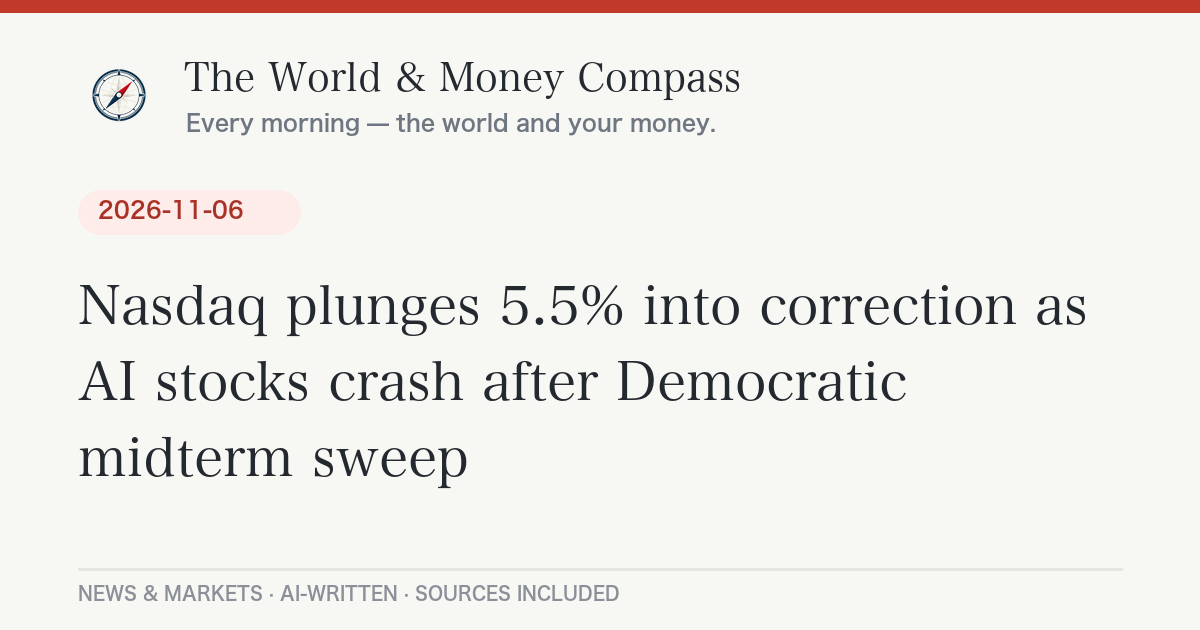
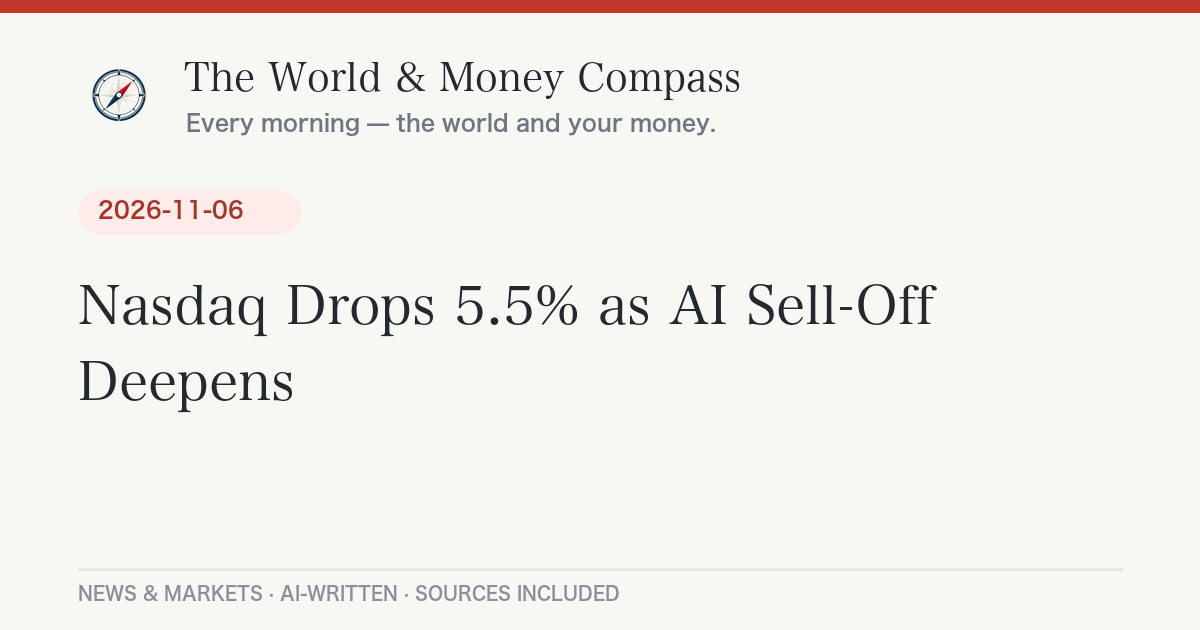
Daily briefing 2026-11-08

diff --git a/_posts/2026-11-08-daily-briefing.md b/_posts/2026-11-08-daily-briefing.md
@@ -1,0 +1,97 @@
+---
+layout: post
+lang: ja
+title: "中間選挙後のAI株急落、日経平均は3,643円安の5万7,434円｜11月8日のニュースとお金"
+date: 2026-11-08 07:55:00 +0900
+categories: [ニュース, 経済]
+headline: "中間選挙後のAI株急落、日経平均は3,643円安の5万7,434円"
+permalink: /2026/11/08/daily-briefing/
+---
+
+## 今日のポイント
+
+米中間選挙で民主党が上下両院を制し、「AIやデータセンターの開発に規制がかかるのでは」という不安が一気に広がりました。5日の米国ではハイテク株が急落し、6日の東京市場も[日経平均が3,643円安の5万7,434円](https://s.kabutan.jp/news/n202611061716/)まで下げています。一方、同じ6日の米雇用統計は予想を大きく上回り、12月の米利上げ観測が強まりました。今日は日曜で市場は休み。来週の相場は「AI株の下げ止まり」と「米CPI」が焦点です。
+
+## 今日の羅針盤（Compass Insight）
+
+今週の動きは、「政治の結果が、特定の成長テーマの値付けを一夜で変える」ことを示しました。水曜は選挙結果を好感してダウが約3%上昇しましたが、翌日には[ナスダック総合が約5.5%、S&P500が約4.4%下落](https://finance.yahoo.com/quote/%5EGSPC/history/)しました（Yahoo Financeの終値から算出）。市場は「選挙の結果」より、その先の「AI規制」を値段に織り込み始めたと読めます。
+
+家計への影響は二つあります。ひとつは投資信託やNISAで米国株・半導体関連を持っている人の評価額で、AI関連に偏った商品ほど振れ幅が大きくなります。もうひとつは金利です。米雇用統計が強く、[12月の利上げ確率は約77%](https://247wallst.com/investing/2026/11/07/odds-of-a-december-rate-hike-jump-to-77-after-a-blowout-jobs-report/)（CME FedWatch）まで上がりました。米金利が高止まりすると、円安・輸入物価・住宅ローン金利の見通しにも影響しやすくなります。
+
+短期では、来週の米CPI・PPIと国内企業の決算、AI関連株が反発するか追加で崩れるかに注目。中長期では、新議会が実際にデータセンター規制をどこまで具体化するか、そして利上げが続く中で株式のバリュエーションが保てるかが論点になりそうです。急落の直後は値動きが荒くなりやすいので、一度に動かず分散を意識したい局面です。
+
+## 今日のニュース
+
+### 日本
+- 高市首相の「台湾有事」発言から7日で1年。[対話は開かれているとしつつ、日中関係の改善は進んでいない](https://www.tokyo-np.co.jp/article/526564)と東京新聞が報じています。
+- 6日の東京株式市場は、東証プライムの[値下がり銘柄が98.1%](https://s.kabutan.jp/news/n202611061716/)に達する全面安でした。値上がりした業種はありませんでした。
+
+### 世界
+- 米国とイランの間では、イランが核問題の提案を伝達し米側が検討中。一方で[トランプ大統領は軍事行動の再開も排除していません](https://www.aljazeera.com/news/2026/11/5/iran-gaza-ukraine-what-will-us-midterm-results-mean-for-these-conflicts)。
+- ウクライナ情勢をめぐる協議は、来週アブダビで行われる見通しです（[Euronews](https://www.euronews.com/2026/11/06/europe-today-trump-weighs-iran-strikes-as-ukraine-talks-head-to-abu-dhabi)）。
+
+### アメリカ
+- 中間選挙で民主党が上下両院を制しました。当選者の一部はデータセンター建設の一時停止を公約に掲げており、これがAI株急落の引き金になりました（[TradingView/Benzinga](https://www.tradingview.com/news/benzinga:847a407fd094b:0-nasdaq-100-has-worst-day-since-2020-jobs-beat-keeps-fed-hike-alive-this-week-on-wall-street/)）。
+- 10月の雇用統計は[非農業部門の雇用者数が16.5万人増](https://247wallst.com/investing/2026/11/07/odds-of-a-december-rate-hike-jump-to-77-after-a-blowout-jobs-report/)（予想は6.5万人増）、失業率は4.1%でした。
+
+### ヨーロッパ
+- 6日の欧州株は米ハイテク株安の波及で下落し、[ストックス600は約1%安](https://www.irishtimes.com/business/2026/11/06/european-shares-tumble-while-us-stocks-soar/)で終えました。
+
+## 経済とお金の動き
+
+### 世界の経済と原油・相場
+
+6日（金）終値ベースです。日曜のため新しい取引はありません。
+
+| 指標 | 水準 | 前日比 |
+|---|---|---|
+| 日経平均株価 | 57,434.77円 | <span class="chg-down">-3,643.13円</span> |
+| S&P500 | 7,376.86 | <span class="chg-up">+0.31%</span> |
+| ナスダック総合 | 24,579.42 | <span class="chg-up">+約1.1%</span> |
+| NYダウ | 約5万1,286ドル | <span class="chg-down">約-0.5%</span> |
+| WTI原油 | 約90.8ドル/バレル | <span class="chg-up">+0.31ドル（週間では約13%安）</span> |
+| ドル円 | 158.33円 | ECB基準日 11月6日 |
+
+出典：[日経平均は株探](https://s.kabutan.jp/news/n202611061716/)、S&P500とナスダックは[Yahoo Finance](https://finance.yahoo.com/)のチャートデータ、ダウとWTIは[Investrade](https://investrade.com/market-review-november-06-2026/)、ドル円は[frankfurter API](https://api.frankfurter.app/latest?from=USD&to=JPY)。ダウとWTIは情報源により数値に小差があるため「約」としています。
+
+原油は選挙後に中東の再衝突リスクが後退するとの見方から、週間では大きく下げました。
+
+### アメリカの経済
+
+雇用統計は強い内容でした。時給は[0.4%上昇し38.00ドル（前年比3.1%増）](https://247wallst.com/investing/2026/11/07/odds-of-a-december-rate-hike-jump-to-77-after-a-blowout-jobs-report/)。FRBは9月16日に利上げ、10月28日は据え置きでしたが、現行の政策金利は3.75〜4.00%です。12月8〜9日の会合で0.25%の追加利上げを市場は有力視しています。10年債利回りは[4.86%](https://www.tradingview.com/news/benzinga:847a407fd094b:0-nasdaq-100-has-worst-day-since-2020-jobs-beat-keeps-fed-hike-alive-this-week-on-wall-street/)です。
+
+### 日本の経済
+
+日経平均は5日続落。取引時間中は一時5万7,000円を割り、下げ幅が4,300円を超える場面もありました。その後は押し目買いで下げ幅を縮めています。東証プライムの売買代金は[12兆4,808億円](https://s.kabutan.jp/news/n202611061716/)と膨らみました。円相場は1ドル158円台です。
+
+## 今日の注目銘柄・セクター
+
+- **半導体・AI関連（東京エレクトロン、アドバンテスト、ソフトバンクGなど）**：米国のAI規制懸念で[日本でも軒並み下落](https://s.kabutan.jp/news/n202611061716/)。米国では半導体株指数（SOX）が約12%下落しました。
+- **メモリ関連（米サンディスク、マイクロン）**：今年の値上がり上位だったぶん反動が大きく、[サンディスクが22%、マイクロンが17%の下落](https://www.tradingview.com/news/benzinga:847a407fd094b:0-nasdaq-100-has-worst-day-since-2020-jobs-beat-keeps-fed-hike-alive-this-week-on-wall-street/)となりました。
+- **自動車（GM・フォード）**：ハイテクに比べ下げが小さく、[GMは水曜に過去最高値を付けました](https://www.tradingview.com/news/benzinga:847a407fd094b:0-nasdaq-100-has-worst-day-since-2020-jobs-beat-keeps-fed-hike-alive-this-week-on-wall-street/)。
+
+*※特定銘柄の売買を推奨するものではありません。投資判断はご自身の責任で。*
+
+## まとめ：注目の3つ
+
+1. **AI規制リスク**：民主党が両院を制した影響で、AI・半導体株が急落。来週は反発か続落かが焦点。
+2. **12月の米利上げ観測**：雇用統計の上振れで確率は約77%。来週の米CPI・PPIが次の材料。
+3. **日米欧の株安連鎖**：日経は5日続落、欧州株も下落。値動きが荒い局面では分散を意識。
+
+---
+<div class="post-sources" markdown="1">
+
+**出典：**
+- [株探：日経平均は大幅続落、米AI規制懸念で幅広い銘柄に売り](https://s.kabutan.jp/news/n202611061716/)
+- [TradingView/Benzinga：Nasdaq 100 Has Worst Day Since 2020](https://www.tradingview.com/news/benzinga:847a407fd094b:0-nasdaq-100-has-worst-day-since-2020-jobs-beat-keeps-fed-hike-alive-this-week-on-wall-street/)
+- [24/7 Wall St：Odds of a December Rate Hike Jump to 77%](https://247wallst.com/investing/2026/11/07/odds-of-a-december-rate-hike-jump-to-77-after-a-blowout-jobs-report/)
+- [Investrade：Market Review November 06, 2026](https://investrade.com/market-review-november-06-2026/)
+- [Irish Times：European shares tumble while US stocks soar](https://www.irishtimes.com/business/2026/11/06/european-shares-tumble-while-us-stocks-soar/)
+- [Al Jazeera：Iran, Gaza, Ukraine: What will US midterm results mean](https://www.aljazeera.com/news/2026/11/5/iran-gaza-ukraine-what-will-us-midterm-results-mean-for-these-conflicts)
+- [Euronews：Europe Today（11月6日）](https://www.euronews.com/2026/11/06/europe-today-trump-weighs-iran-strikes-as-ukraine-talks-head-to-abu-dhabi)
+- [東京新聞：「台湾有事」発言、1年経過](https://www.tokyo-np.co.jp/article/526564)
+- 市場データ: [frankfurter API](https://api.frankfurter.app/) ／ Yahoo Finance
+
+*本記事は公開情報をもとに作成しています。*
+
+</div>

diff --git a/_posts/2026-11-08-daily-briefing-en.md b/_posts/2026-11-08-daily-briefing-en.md
@@ -1,0 +1,56 @@
+---
+layout: post
+lang: en
+title: "AI stocks crater after Democratic midterm sweep; jobs beat revives Fed hike bets — November 8, 2026"
+date: 2026-11-08 07:55:00 +0900
+headline: "AI stocks crater after Democratic midterm sweep; jobs beat revives Fed hike bets"
+permalink: /2026/11/08/daily-briefing/
+---
+
+## Top U.S. Stories
+
+- Democrats won both chambers of Congress in Tuesday's midterms. Several winners had campaigned on [pausing new data center construction](https://www.tradingview.com/news/benzinga:847a407fd094b:0-nasdaq-100-has-worst-day-since-2020-jobs-beat-keeps-fed-hike-alive-this-week-on-wall-street/).
+  *Why it matters:* Investors began pricing in tighter regulation of AI infrastructure, the theme that has driven this year's market gains.
+- On Thursday the S&P 500 fell about 4.4% and the Nasdaq Composite about 5.5% (calculated from [Yahoo Finance](https://finance.yahoo.com/quote/%5EGSPC/history/) closes), while the Philadelphia Semiconductor Index dropped about 12% ([TradingView/Benzinga](https://www.tradingview.com/news/benzinga:847a407fd094b:0-nasdaq-100-has-worst-day-since-2020-jobs-beat-keeps-fed-hike-alive-this-week-on-wall-street/)).
+- October payrolls rose by [165,000 versus about 65,000 expected](https://247wallst.com/investing/2026/11/07/odds-of-a-december-rate-hike-jump-to-77-after-a-blowout-jobs-report/); unemployment slipped to 4.1% and average hourly earnings rose 0.4%.
+  *Why it matters:* Strong hiring and wage growth give the Fed more reason to tighten, which can pressure stock valuations and keep borrowing costs high.
+- Traders now see roughly a [77% chance of a quarter-point Fed hike](https://247wallst.com/investing/2026/11/07/odds-of-a-december-rate-hike-jump-to-77-after-a-blowout-jobs-report/) in December (CME FedWatch), up from about 67% a week earlier. The Fed hiked on September 16 and held on October 28.
+- On Iran, Tehran has sent a nuclear proposal to Washington while [Trump has not ruled out renewed strikes](https://www.aljazeera.com/news/2026/11/5/iran-gaza-ukraine-what-will-us-midterm-results-mean-for-these-conflicts); Ukraine talks are [set to move to Abu Dhabi](https://www.euronews.com/2026/11/06/europe-today-trump-weighs-iran-strikes-as-ukraine-talks-head-to-abu-dhabi).
+
+## Compass Insight
+
+This week showed how a political result can reprice a whole market theme overnight. Stocks first cheered the election outcome, with the Dow up about 3% on Wednesday, then turned to the second-order effect: possible limits on data center buildout. Friday's jobs report added a second pressure point, because a hot labor market makes a December hike more likely just as growth stocks look fragile.
+
+In the short run, watch next week's CPI and PPI readings and whether AI-linked shares stabilize or break lower. Over the medium term, the questions are how far the new Congress actually moves on data center rules, and whether valuations can hold while rates keep rising. After sharp drops, volatility tends to stay high, so diversification matters more than timing.
+
+## Markets
+
+Friday, November 6 closes. Markets are closed on Sunday.
+
+- S&P 500: 7,376.86 (+0.31%); Nasdaq Composite: 24,579.42 (+about 1.1%), per [Yahoo Finance](https://finance.yahoo.com/) data. The Dow closed near 51,286, down about 0.5% ([Investrade](https://investrade.com/market-review-november-06-2026/)).
+- WTI crude settled near $90.8 a barrel, but fell roughly 13% on the week ([Investrade](https://investrade.com/market-review-november-06-2026/)). Small differences exist between sources.
+- 10-year Treasury yield: 4.86%. USD/JPY: [158.33](https://api.frankfurter.app/latest?from=USD&to=JPY) (ECB reference rate, Nov 6).
+- Abroad, Japan's Nikkei 225 fell 3,643 points to [57,434.77](https://s.kabutan.jp/news/n202611061716/), and the Stoxx 600 lost about 1% ([Irish Times](https://www.irishtimes.com/business/2026/11/06/european-shares-tumble-while-us-stocks-soar/)).
+
+## Stocks in Focus
+
+- **Memory chipmakers:** SanDisk fell 22% and Micron 17% on Thursday, though both remain among the S&P 500's best performers of 2026 ([TradingView/Benzinga](https://www.tradingview.com/news/benzinga:847a407fd094b:0-nasdaq-100-has-worst-day-since-2020-jobs-beat-keeps-fed-hike-alive-this-week-on-wall-street/)).
+- **Automakers:** GM touched a record $93.70 on Wednesday before the selloff erased its weekly gain; Ford rose about 2% on the week.
+
+*Not a recommendation to buy or sell any security.*
+
+<div class="post-sources" markdown="1">
+
+**Sources:**
+- [TradingView/Benzinga: Nasdaq 100 Has Worst Day Since 2020](https://www.tradingview.com/news/benzinga:847a407fd094b:0-nasdaq-100-has-worst-day-since-2020-jobs-beat-keeps-fed-hike-alive-this-week-on-wall-street/)
+- [24/7 Wall St: Odds of a December Rate Hike Jump to 77%](https://247wallst.com/investing/2026/11/07/odds-of-a-december-rate-hike-jump-to-77-after-a-blowout-jobs-report/)
+- [Investrade: Market Review November 06, 2026](https://investrade.com/market-review-november-06-2026/)
+- [Kabutan: Nikkei market wrap](https://s.kabutan.jp/news/n202611061716/)
+- [Irish Times: European shares tumble while US stocks soar](https://www.irishtimes.com/business/2026/11/06/european-shares-tumble-while-us-stocks-soar/)
+- [Al Jazeera: What will US midterm results mean for these conflicts](https://www.aljazeera.com/news/2026/11/5/iran-gaza-ukraine-what-will-us-midterm-results-mean-for-these-conflicts)
+- [Euronews: Europe Today (Nov 6)](https://www.euronews.com/2026/11/06/europe-today-trump-weighs-iran-strikes-as-ukraine-talks-head-to-abu-dhabi)
+- Market data: [frankfurter API](https://api.frankfurter.app/), Yahoo Finance
+
+</div>
+
+*Auto-generated and AI-written. Not investment advice.*
